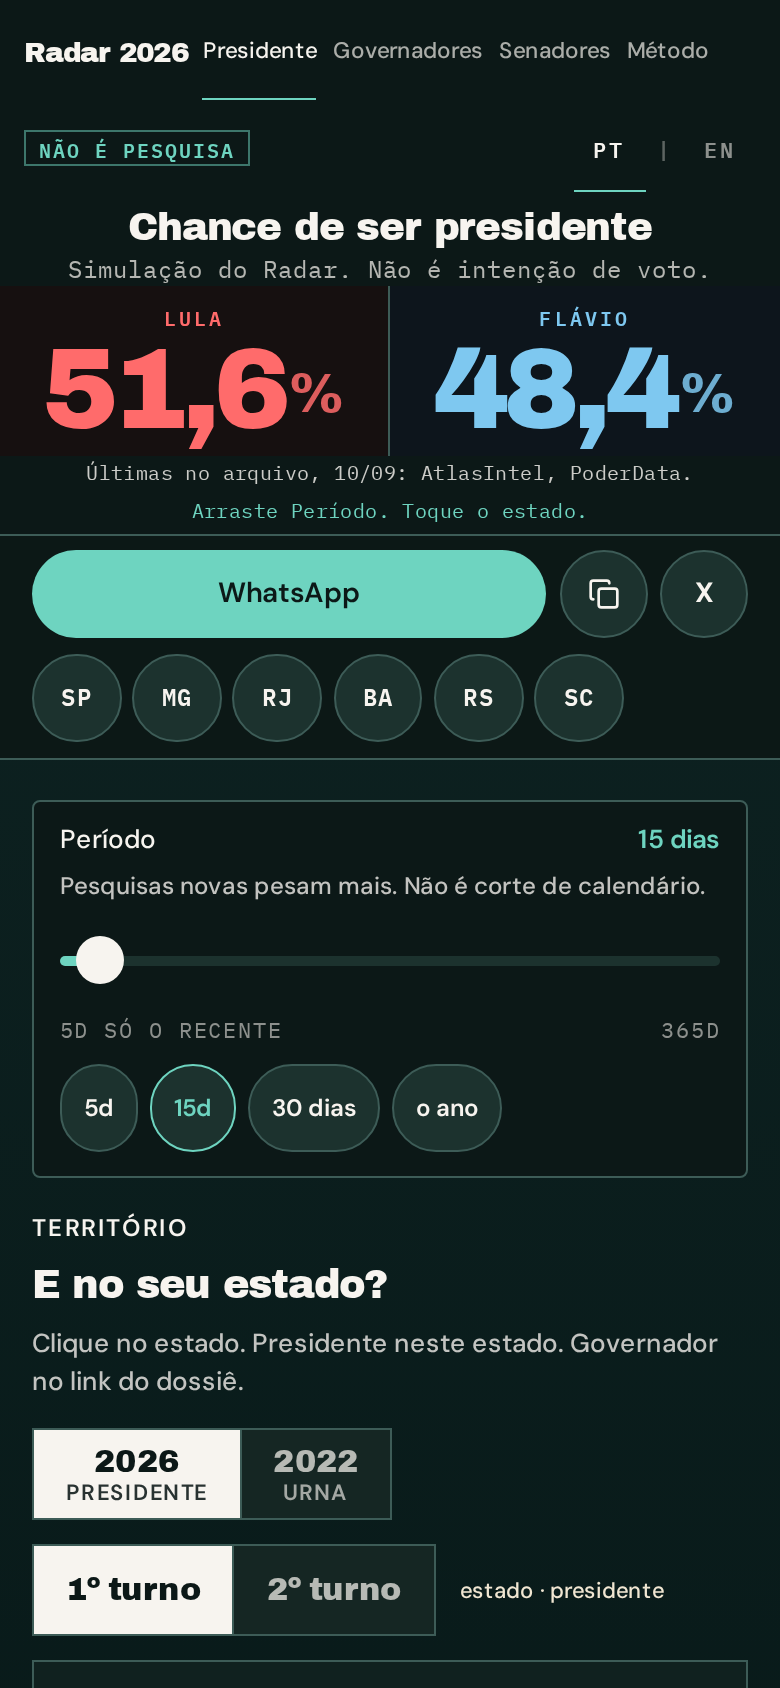
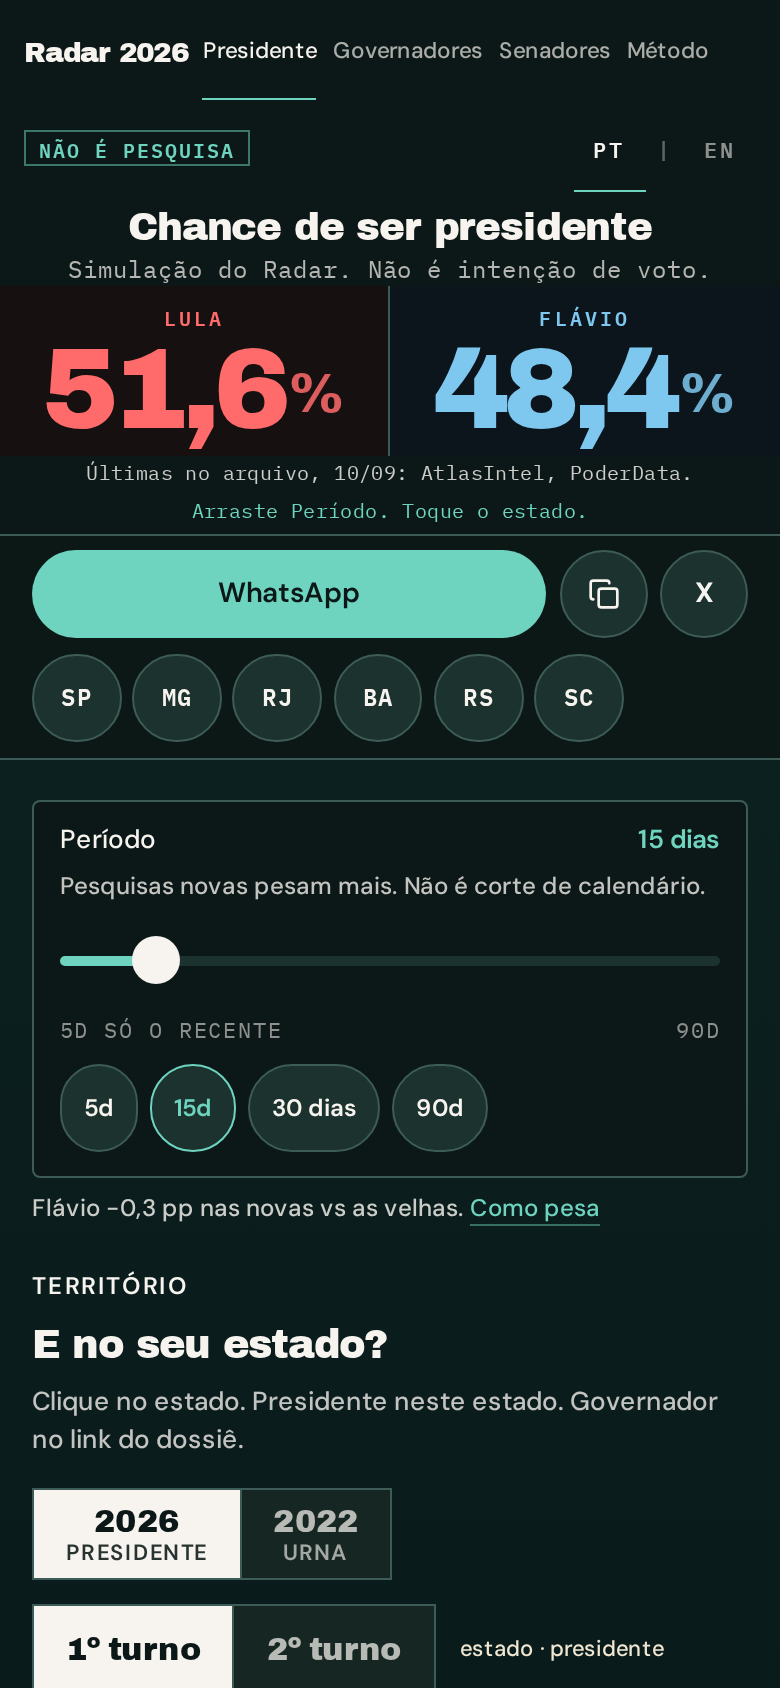
fix: cap public period at 90 days
Default stays 15d. Presets are 5d, 15d, 30d and 90d. Query hl
above 90 clamps. Home keeps a one-line lab delta under the slider.

diff --git a/src/features/radar/public/public-radar-page.tsx b/src/features/radar/public/public-radar-page.tsx
@@ -21,7 +21,7 @@ import {
   type RunoffKey,
 } from "@/lib/forecast/runoff-scenarios";
 import { extraVarCached, publicEngineConfig } from "@/lib/forecast/extra-var";
-import { fieldPeriodLine, fmtMult, isShownTie, pairTightnessLine, shownGap } from "@/lib/format";
+import { fieldPeriodLine, fmtDelta, fmtMult, isShownTie, pairTightnessLine, shownGap } from "@/lib/format";
 import { useHalfLife, useHalfLifeDragging } from "@/lib/half-life";
 import { keepRadarSearch, useI18n } from "@/lib/i18n";
 import { UF_CHIP_CODES, writeStoredUf } from "@/lib/site";
@@ -31,6 +31,7 @@ import { buildHeroBoard, leadPairOrder, type HeroRow } from "@/lib/hero-board";
 import { TWEEN_MS, useHeroFlip, useTweenedProb } from "@/features/radar/public/use-hero-flip";
 import { pollsOnLatestDay } from "@/lib/latest-day";
 import { exampleGovernorUfs, ufTemCasas } from "@/lib/race-hooks";
+import { buildNationalTrend, windowMomentum } from "@/lib/forecast/trends";
 import { cn } from "@/lib/utils";
 
 const COMPARE_GOV_UF = exampleGovernorUfs().two;
@@ -378,6 +379,14 @@ export function PublicRadarPage() {
   const forecast = useMemo(() => runForecast(polls, config), [config]);
   const { probs, rows, first, second } = forecast;
   const latestDayPolls = useMemo(() => pollsOnLatestDay(polls, asOf), [asOf]);
+  const labMom = useMemo(() => {
+    const visible = polls.filter((poll) => poll.date <= asOf && poll.fieldEnd <= asOf);
+    return windowMomentum(buildNationalTrend(visible));
+  }, [asOf]);
+  const labMover =
+    Math.abs(labMom.dFlavio1) >= Math.abs(labMom.dLula1)
+      ? { who: "Flávio", delta: labMom.dFlavio1 }
+      : { who: "Lula", delta: labMom.dLula1 };
   const pLula = Math.round(probs.lulaWinsElection * 1000) / 10;
   const pFlavio = Math.round(probs.flavioWinsElection * 1000) / 10;
   const heroBoard = useMemo(() => buildHeroBoard(probs), [probs]);
@@ -453,6 +462,16 @@ export function PublicRadarPage() {
 
       <main id="conteudo" className="page-body page-body-home mx-auto min-w-0 max-w-6xl overflow-x-clip px-4 pt-5 sm:px-6 sm:pt-8">
         <HalfLifeControl />
+        <p className="lab-hook">
+          {m.home.labHook(labMover.who, fmtDelta(labMover.delta, 1, locale))}{" "}
+          <Link
+            to="/lab"
+            search={(prev) => keepRadarSearch(prev as Record<string, unknown>)}
+            className="hook-link"
+          >
+            {m.home.labHookLink}
+          </Link>
+        </p>
         <GrowthCurve polls={polls} asOf={asOf} halfLifeDays={curveHalfLife} />
         <section id="media" className="mb-6 space-y-4 scroll-mt-24">
           <div className="story-head">

diff --git a/src/lib/i18n/messages.ts b/src/lib/i18n/messages.ts
@@ -59,7 +59,7 @@ export const pt = {
     copy: "Pesquisas novas pesam mais. Não é corte de calendário.",
     recent: (n: number) => `${n}d só o recente`,
     month: "30 dias",
-    year: "o ano",
+    year: "90d",
     presetsAria: "Atalhos de período",
     long: (n: number) => `${n}d`,
     valuetext: (n: number) => `período de ${n} dias`,
@@ -97,6 +97,9 @@ export const pt = {
     methodLede: "Pesquisas novas pesam mais. O laboratório tem pesos e acerto histórico.",
     ofWeight: "do peso",
     methodLink: "Pesos, acerto histórico e o motor",
+    labHook: (who: string, delta: string) =>
+      `${who} ${delta} pp nas novas vs as velhas.`,
+    labHookLink: "Como pesa",
     footerNav: "Rodapé",
     footer:
       "v3 · portal independente · peso 2014, 2018 e 2022 · não é instituto oficial",
@@ -450,7 +453,7 @@ export const en: Messages = {
     copy: "Newer polls weigh more. This is not a calendar cutoff.",
     recent: (n: number) => `${n}d recent only`,
     month: "30 days",
-    year: "the year",
+    year: "90d",
     presetsAria: "Period shortcuts",
     long: (n: number) => `${n}d`,
     valuetext: (n: number) => `${n}-day period`,
@@ -488,6 +491,9 @@ export const en: Messages = {
     methodLede: "Newer polls weigh more. The lab has weights and historical accuracy.",
     ofWeight: "of the weight",
     methodLink: "Weights, track record and the engine",
+    labHook: (who: string, delta: string) =>
+      `${who} ${delta} pp in newer vs older polls.`,
+    labHookLink: "How it weighs",
     footerNav: "Footer",
     footer:
       "v3 · independent site · 2014, 2018 and 2022 weights · not an official pollster",

diff --git a/src/components/half-life-control.tsx b/src/components/half-life-control.tsx
@@ -1,11 +1,9 @@
 import { useEffect, useRef, useState } from "react";
-import { todayAsOf } from "@/lib/forecast/engine";
 import {
   DEFAULT_HALF_LIFE,
   HL_MAX,
   HL_MIN,
   useHalfLife,
-  yearToDateDays,
 } from "@/lib/half-life";
 import { useI18n } from "@/lib/i18n";
 import { cn } from "@/lib/utils";
@@ -23,12 +21,11 @@ export function HalfLifeSlider({ id }: { id?: string }) {
   halfLifeRef.current = halfLife;
   commitRef.current = commitUrl;
   setLiveRef.current = setLive;
-  const ytd = yearToDateDays(todayAsOf());
   const presets = [
     { days: HL_MIN, label: `${HL_MIN}d` },
     { days: DEFAULT_HALF_LIFE, label: `${DEFAULT_HALF_LIFE}d` },
     { days: 30, label: m.period.month },
-    { days: ytd, label: m.period.year },
+    { days: HL_MAX, label: `${HL_MAX}d` },
   ];
 
   useEffect(() => {

diff --git a/src/styles.css b/src/styles.css
@@ -1070,6 +1070,16 @@
     margin: 0 0 1.5rem;
   }
 
+  .lab-hook {
+    margin: 0 0 1.35rem;
+    font-family: var(--font-sans);
+    font-size: var(--text-caption);
+    font-weight: 500;
+    line-height: 1.4;
+    color: color-mix(in oklab, var(--color-cream) 82%, transparent);
+    text-wrap: pretty;
+  }
+
   @media (max-width: 639px) {
     .page-body-home {
       display: flex;
@@ -1078,7 +1088,11 @@
 
     .page-body-home > .mast-hl {
       order: 1;
-      margin-bottom: 1rem;
+      margin-bottom: 0.45rem;
+    }
+
+    .page-body-home > .lab-hook {
+      order: 1;
     }
 
     .page-body-home > #mapa {

diff --git a/src/lib/period.ts b/src/lib/period.ts
@@ -1,6 +1,6 @@
-/** Recência do Radar: meia-vida em dias. Default público = 15 dias. */
+/** Recência do Radar: meia-vida em dias. Default público = 15 dias. Teto 90. */
 export const HL_MIN = 5;
-export const HL_MAX = 365;
+export const HL_MAX = 90;
 export const DEFAULT_HALF_LIFE = 15;
 export const YEAR_START = "2026-01-01";
 
